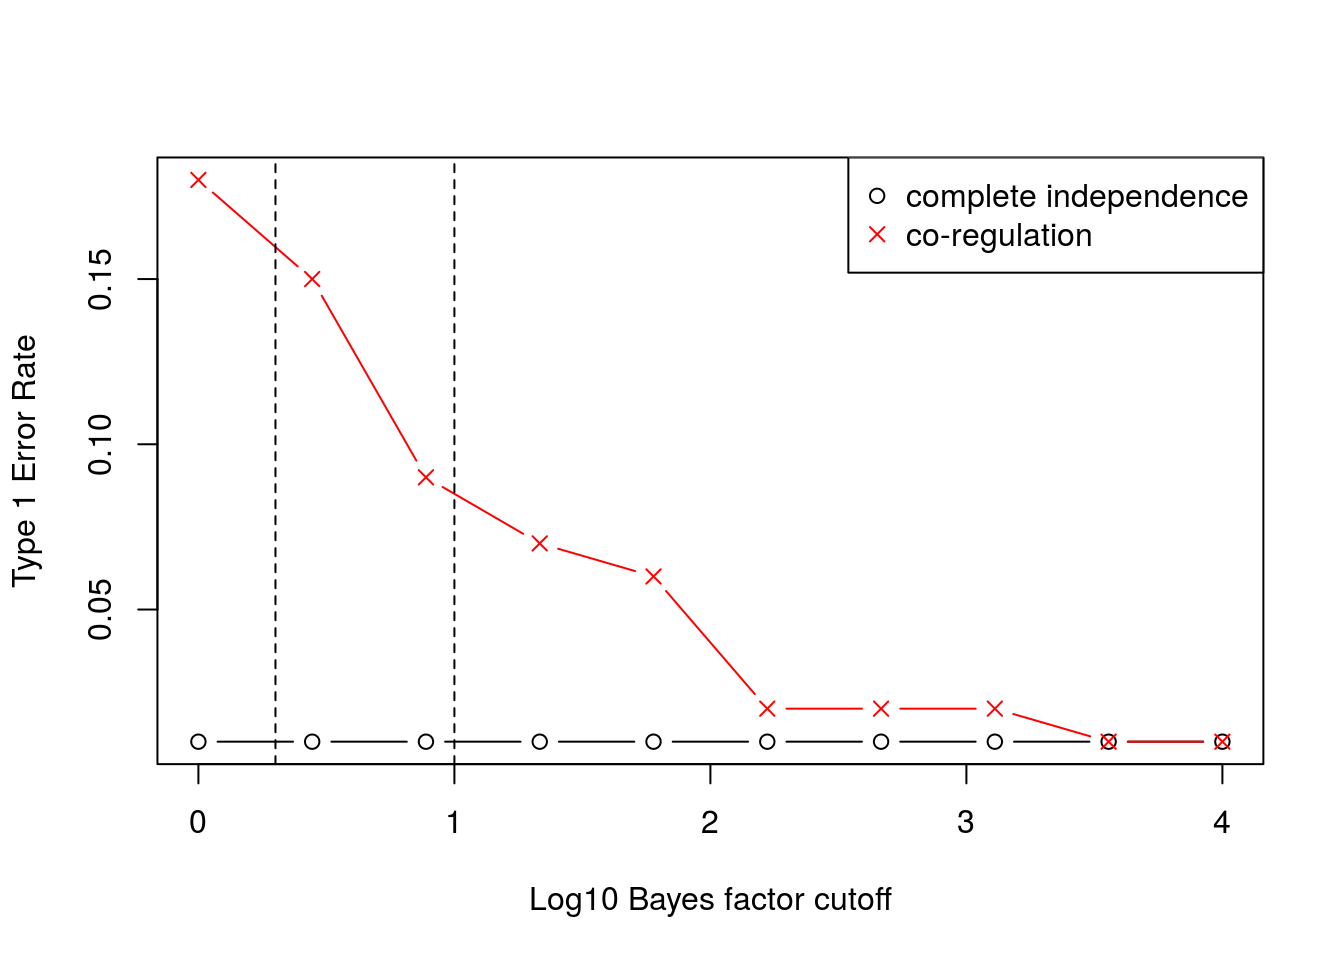
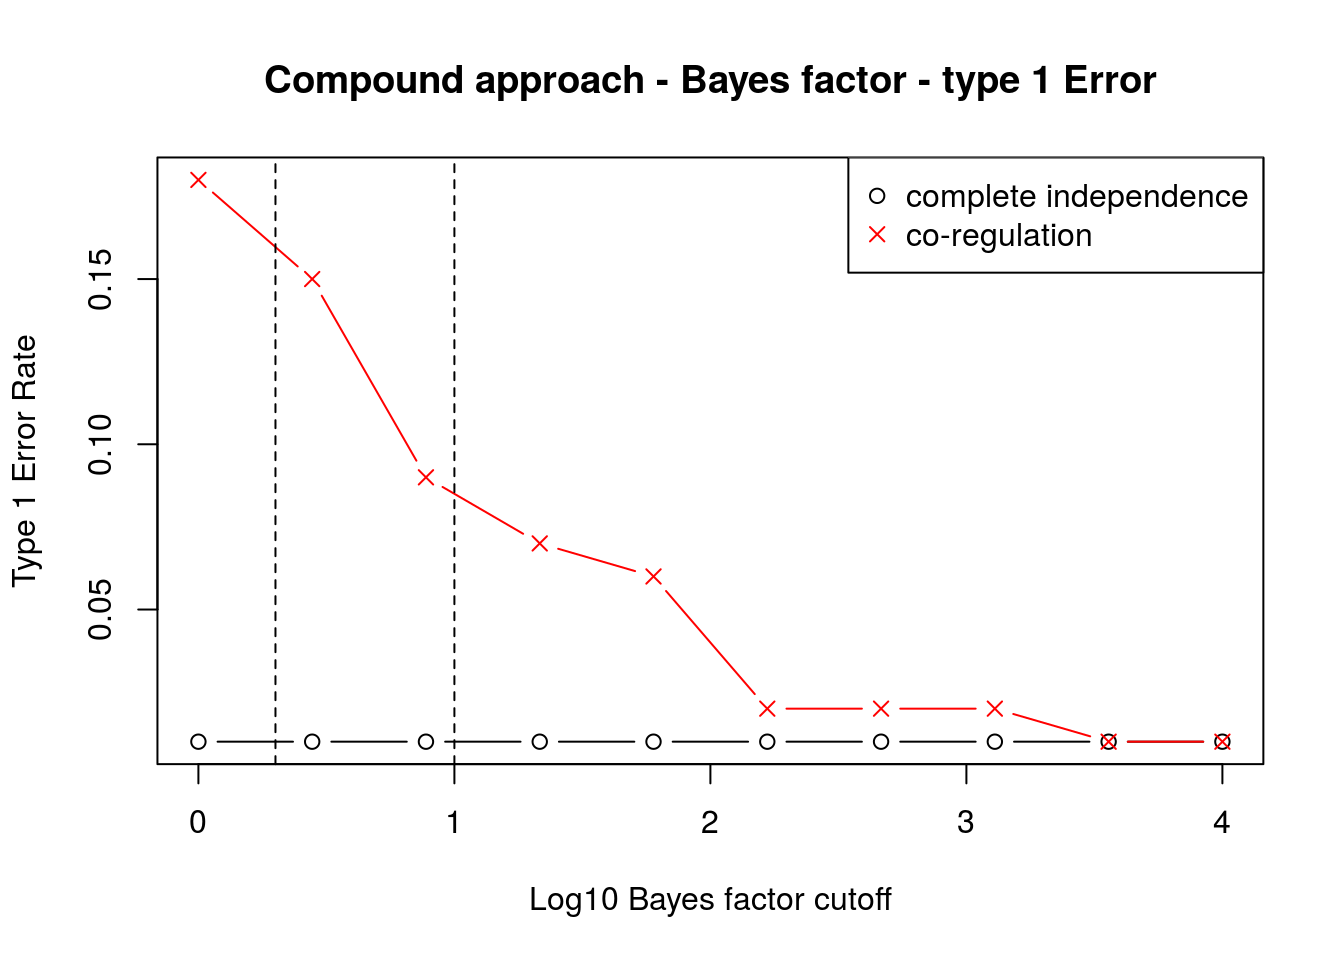
add some plot titles

Changed region(s): [[0.1875, 0.0625, 0.875, 0.125]]

diff --git a/docs/compare_approaches.html b/docs/compare_approaches.html
@@ -412,10 +412,8 @@ l(\pi_{0}^{(2,0)}, \sigma_2 \vert \hat{\beta}_{2}, b_{2}) = \sum_{i=1}^{p}\log \
 <p>This gives an average of 520 eQTLs, 20 of which are strong eQTLs and about 1000 GWAS SNPs. The average heritability of gene expression is about 0.53 and the average heritability of the phenotype is abuot 0.37.</p>
 <p>Here is one data set realized from this scenario. First we specify functions generating <span class="math inline">\(\beta_1\)</span> and <span class="math inline">\(\beta_2\)</span>. Running <code>sim_sherlock_flex</code> with <code>types=c()</code> will summarize the average heritability of the two traits and the correlation between effect sizes.</p>
 <pre class="r"><code>library(ashr)
-library(sherlockAsh)</code></pre>
-<pre><code>## Warning: replacing previous import &#39;ks::compare&#39; by &#39;loo::compare&#39; when
-## loading &#39;sherlockAsh&#39;</code></pre>
-<pre class="r"><code>set.seed(1e7)
+library(sherlockAsh)
+set.seed(1e7)
 g1n &lt;- normalmix(pi=c(0.948, 0.03, 0.02, 0.002), 
                 mean=rep(0, 4), 
                 sd=c(0, 0.08, 0.1, 0.2))
@@ -524,6 +522,8 @@ mean(corr_res1$upper &gt; 0 | corr_res1$lower &lt; 0)</code></pre>
 </div>
 <div id="compound-approach" class="section level4">
 <h4>Compound approach</h4>
+<div id="bayes-factor" class="section level5">
+<h5>Bayes factor</h5>
 <p>Next we look at the compound method. We considered three different values of <span class="math inline">\(C\)</span> in the prior for <span class="math inline">\(P[\beta_2 =0 \vert \beta_1 \neq 0]\)</span> (recall that this parameter has a Beta<span class="math inline">\((C*\pi_{0}^{(2,0)}, C*(1-\pi_{0}^{(2,0)}))\)</span> prior). We consider <span class="math inline">\(C = 100, 1000\)</span>, and <span class="math inline">\(5000\)</span>.</p>
 <pre class="r"><code>comp_res1 &lt;- data.frame(&quot;elpd-100&quot;=res1$comp[1, , 5]/res1$comp[1,,6], 
                        &quot;elpd-1000&quot;=res1$comp[2, , 5]/res1$comp[2,,6], 
@@ -574,14 +574,15 @@ apply(comp_res2, MARGIN=2, FUN=summary)</code></pre>
 ## Max.      2.3490    2.3620    1.0230  5.856  5.9040   5.906</code></pre>
 <p>First considering the Bayes factors — The value of <span class="math inline">\(C\)</span> has very little effect on the Bayes factor:</p>
 <pre class="r"><code>pairs(comp_res1[, paste0(&quot;bf.&quot;, c(100, 1000, 5000))], main=&quot;Complete independence&quot;)</code></pre>
-<p><img src="compare_approaches_files/figure-html/unnamed-chunk-10-1.png" width="0.5\textwidth" /></p>
+<p><img src="compare_approaches_files/figure-html/unnamed-chunk-10-1.png" width="672" /></p>
 <pre class="r"><code>pairs(comp_res2[, paste0(&quot;bf.&quot;, c(100, 1000, 5000))], main=&quot;Co-regulation&quot;)</code></pre>
-<p><img src="compare_approaches_files/figure-html/unnamed-chunk-10-2.png" width="0.5\textwidth" /> The Bayes factors are negative for 99% of simulations in the complete independece scenario and 82% of simulations in the co-regulation scenario ( Negative Bayes factors indicate that there is more evidence for the NC model than the CC model). The type 1 error rate (i.e. the rate of incorrectly accepting the CC model over the NC model) using the Bayes factor depends on the cutoff chosen.</p>
+<p><img src="compare_approaches_files/figure-html/unnamed-chunk-10-2.png" width="672" /> The Bayes factors are negative for 99% of simulations in the complete independece scenario and 82% of simulations in the co-regulation scenario ( Negative Bayes factors indicate that there is more evidence for the NC model than the CC model). The type 1 error rate (i.e. the rate of incorrectly accepting the CC model over the NC model) using the Bayes factor depends on the cutoff chosen.</p>
 <pre class="r"><code>log_bf_cutoff &lt;- seq(0, 4, length.out=10)
 t1e_1 &lt;- sapply(log_bf_cutoff, FUN=function(s){mean(comp_res1$bf.100 &gt; s)})
 t1e_2 &lt;- sapply(log_bf_cutoff, FUN=function(s){mean(comp_res2$bf.100 &gt; s)})
 plot(log_bf_cutoff, t1e_1, ylim=range(c(t1e_1, t1e_2)), 
-     ylab=&quot;Type 1 Error Rate&quot;, xlab=&quot;Log10 Bayes factor cutoff&quot;, type=&quot;b&quot;)
+     ylab=&quot;Type 1 Error Rate&quot;, xlab=&quot;Log10 Bayes factor cutoff&quot;, 
+     main=&quot;Compound approach - Bayes factor - type 1 Error&quot;, type=&quot;b&quot;)
 points(log_bf_cutoff, t1e_2, col=&quot;red&quot;, type=&quot;b&quot;, pch=4)
 legend(&quot;topright&quot;, legend=c(&quot;complete independence&quot;, &quot;co-regulation&quot;), 
        col=c(&quot;black&quot;, &quot;red&quot;), pch=c(1, 4))
@@ -592,18 +593,22 @@ abline(v=c(log10(2), 1), lty=2)</code></pre>
 pwr1 &lt;- sapply(log_bf_cutoff, FUN=function(s){mean(comp_res1$bf.100 &lt; s)})
 pwr2 &lt;- sapply(log_bf_cutoff, FUN=function(s){mean(comp_res2$bf.100 &lt; s)})
 plot(log_bf_cutoff, pwr1, ylim=range(c(pwr1, pwr2)), 
-     ylab=&quot;Power to accept NC model over CC&quot;, xlab=&quot;Log10 Bayes factor cutoff&quot;, type=&quot;b&quot;)
+     ylab=&quot;Power to accept NC model over CC&quot;, xlab=&quot;Log10 Bayes factor cutoff&quot;, 
+     main=&quot;Compound approach - Bayes factor \n Power to choose the NC model under null&quot;, type=&quot;b&quot;)
 points(log_bf_cutoff, pwr2, col=&quot;red&quot;, type=&quot;b&quot;, pch=4)
 legend(&quot;topleft&quot;, legend=c(&quot;complete independence&quot;, &quot;co-regulation&quot;), 
        col=c(&quot;black&quot;, &quot;red&quot;), pch=c(1, 4))
 abline(v=-1*c(log10(2), 1), lty=2)</code></pre>
 <p><img src="compare_approaches_files/figure-html/unnamed-chunk-12-1.png" width="672" /></p>
 <p>Not surprisingly, in the complete independence scenario, there is stronger evidence to accept the NC model over the CC model.</p>
+</div>
+<div id="elpd" class="section level5">
+<h5>elpd</h5>
 <p>Next we consider the elpd metric for comparing models. Like the BF, these are also fairly insensitive to the choice of <span class="math inline">\(C\)</span>.</p>
 <pre class="r"><code>pairs(comp_res1[, paste0(&quot;elpd.&quot;, c(100, 1000, 5000))], main=&quot;complete indepenedence&quot;)</code></pre>
-<p><img src="compare_approaches_files/figure-html/unnamed-chunk-13-1.png" width="0.5\textwidth" /></p>
+<p><img src="compare_approaches_files/figure-html/unnamed-chunk-13-1.png" width="672" /></p>
 <pre class="r"><code>pairs(comp_res1[, paste0(&quot;elpd.&quot;, c(100, 1000, 5000))], main=&quot;co-regulation&quot;)</code></pre>
-<p><img src="compare_approaches_files/figure-html/unnamed-chunk-13-2.png" width="0.5\textwidth" /></p>
+<p><img src="compare_approaches_files/figure-html/unnamed-chunk-13-2.png" width="672" /></p>
 <p>For these statistics, negative values also indicate that the NC model is favored over the CC model. Treating the elpd statistics like <span class="math inline">\(t\)</span>-statistics, we can use a one-sided test to choose one model over the other. Here we plot the type 1 error as a function of the nominal level. The correlation method is include for comparison, though for the correlation approach we use a two sided test.</p>
 <pre class="r"><code>level &lt;- seq(0.01, 0.1, length.out=10)
 thresh_one_sided &lt;- qnorm(1-level)
@@ -613,7 +618,8 @@ t1e_2 &lt;- sapply(thresh_one_sided, FUN=function(s){mean(comp_res2$elpd.100 &gt
 t1e_corr_1 &lt;- sapply(thresh_two_sided, FUN=function(s){mean(abs(corr_res1$lambda/corr_res1$se) &gt; s)})
 t1e_corr_2 &lt;- sapply(thresh_two_sided, FUN=function(s){mean(abs(corr_res2$lambda/corr_res2$se) &gt; s)})
 plot(level, t1e_1, ylim=range(c(t1e_1, t1e_2, t1e_corr_1, t1e_corr_2)), 
-     ylab=&quot;Type 1 Error Rate&quot;, xlab=&quot;Nominal level&quot;, type=&quot;b&quot;)
+     ylab=&quot;Type 1 Error Rate&quot;, xlab=&quot;Nominal level&quot;, 
+     main=&quot;Compound approach - elpd -type 1 error&quot;, type=&quot;b&quot;)
 points(level, t1e_2, type=&quot;b&quot;, pch=4)
 points(level, t1e_corr_1, type=&quot;b&quot;, col=&quot;blue&quot;)
 points(level, t1e_corr_2, type=&quot;b&quot;, col=&quot;blue&quot;, pch=4)
@@ -629,11 +635,13 @@ thresh &lt;- -1*qnorm(1-level)
 pwr1 &lt;- sapply(thresh, FUN=function(s){mean(comp_res1$elpd.100 &lt; s)})
 pwr2 &lt;- sapply(thresh, FUN=function(s){mean(comp_res2$elpd.100 &lt; s)})
 plot(level, pwr1, ylim=range(c(pwr1, pwr2)), 
-     ylab=&quot;Power to accept NC model over CC&quot;, xlab=&quot;Nominal level&quot;, type=&quot;b&quot;)
+     ylab=&quot;Power to accept NC model over CC&quot;, xlab=&quot;Nominal level&quot;, 
+     main=&quot;Compound approach - elpd \n Power to choose the NC model under null&quot;, type=&quot;b&quot;)
 points(level, pwr2, type=&quot;b&quot;, pch=4)
 legend(&quot;topleft&quot;, legend=c(&quot;complete independence&quot;, &quot;co-regulation&quot;),  pch=c(1, 4))</code></pre>
 <p><img src="compare_approaches_files/figure-html/unnamed-chunk-15-1.png" width="672" /></p>
 <p>The elpd statistic with a nominal level of 0.05 gives a somewhat lower power to conclusively choose the NC model than using the BF with a threshold of 10, but the rate of choosing the wrong model is also lower.</p>
+</div>
 </div>
 </div>
 </div>
